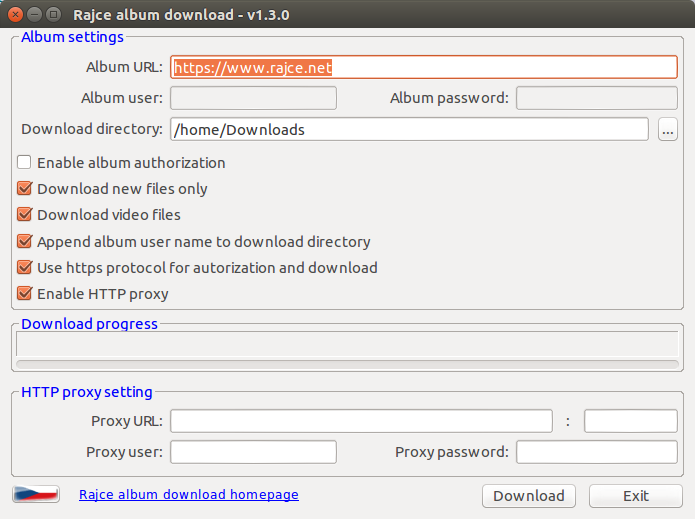
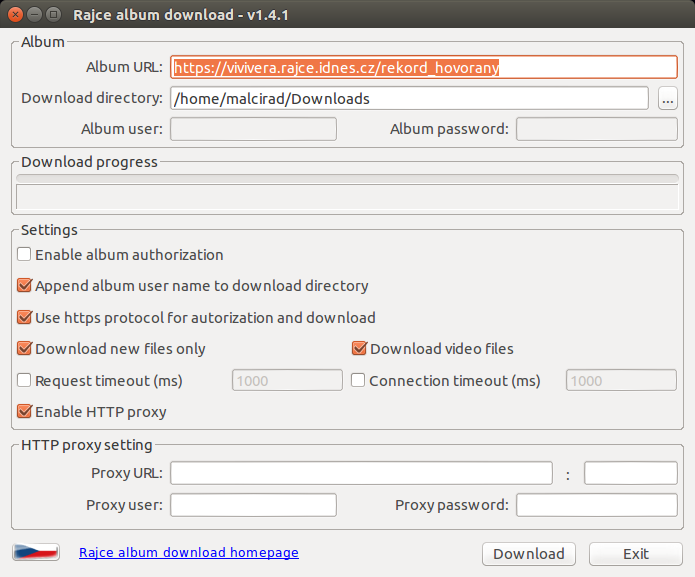
Readme and pictures update

diff --git a/README.md b/README.md
@@ -14,7 +14,8 @@ Simply download and unzip package from the link below and then execute Rajce.exe
 
 # Changelog
 
-* 1.4.1 - Fix of the #9 - new request and connection timeout options
+* 1.4.1 - Fix of the #9 - clear download list when new URL is set
+*       - new request and connection timeout options
 * 1.4.0 - Fix of the #8 - new url parsing of video files
 * 1.3.1 - Fix of the #6 - downloaded video files do not have full name
 * 1.3.0 - new option - download video files
